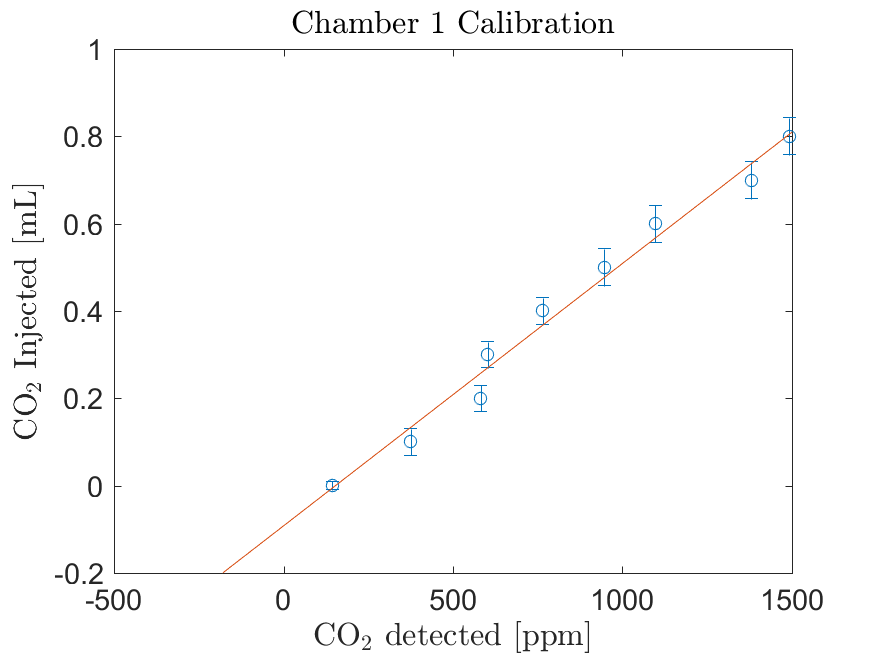
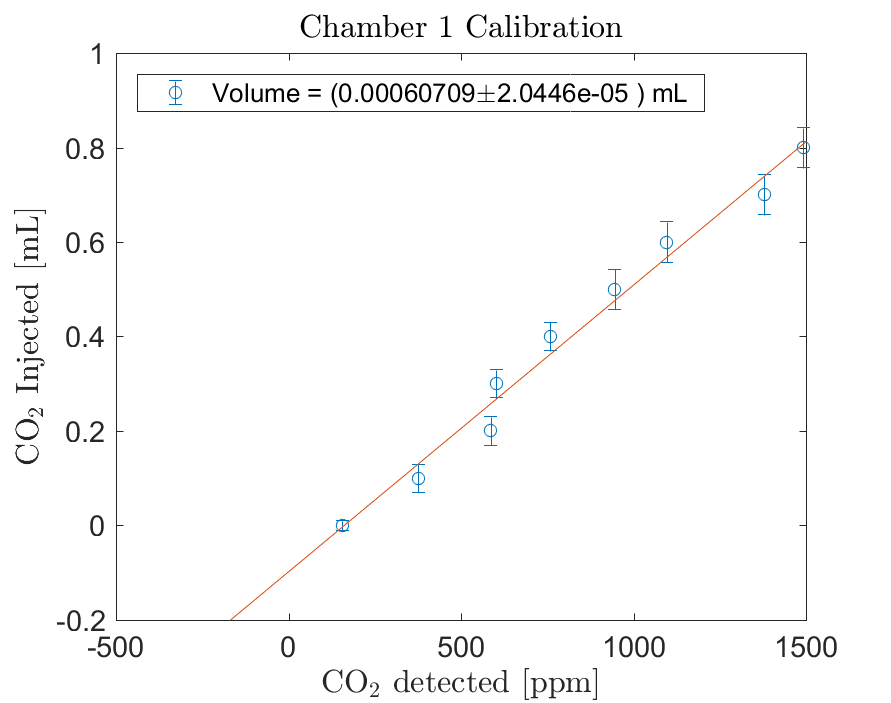
chamber data

diff --git a/leak_chmb_0-24_calibration/chmh_volume_calc.m b/leak_chmb_0-24_calibration/chmh_volume_calc.m
@@ -1,4 +1,5 @@
 % Program to calculate the volume of leak test chambers
+% created by Sam Penders (pende061@umn.edu)
 
 %filename = '/home/sam/Mu2e-Factory/leak_chmb_0-24_calibration/row_1/ch0_0.1_0.8mL.txt';
 
@@ -7,10 +8,10 @@ ppmError = zeros(9,10); %statistical error on averaged ppm datapoints %where the
 % times CO2 level changed from 0 to 0.1; 0.1 to 0.8; 0.2 to 0.7; 0.3 to 0.6; 0.4 to
 % 0.5 on last chamber
 
-for m = 1:1 %row 1 and row 2 data
+for m = 1:2 %row 1 and row 2 data
     for k = 1:5
         for n = 1:4 %read in all four files
-            filename = strcat('/home/sam/Mu2e-Factory/leak_chmb_0-24_calibration/row_',num2str(m),'/','ch',num2str(k-1),'_',num2str(n/10), '_',num2str(0.8-n/10+0.1),'mL.txt');
+            filename = strcat('/home/sam/Mu2e-Factory/leak_chmb_0-24_calibration/row_',num2str(m),'/','ch',num2str(k-1+5*(m-1)),'_',num2str(n/10), '_',num2str(0.8-n/10+0.1),'mL.txt');
 
             d = readtable(filename);
             t = table2array(d(:,1)); %times, in epoch time
@@ -19,16 +20,22 @@ for m = 1:1 %row 1 and row 2 data
             if m ==1
                 transitions = [1514917008.0849, 1514917591.98222, 1514925969.34006, 1514928576.9107, 1514930780.71907];
             else
-                %transitions = get transitions from data
+                transitions = [1514917398.41982 1514917997.38311 1514926061.61034 1514928669.92289 1514930812.94912];
+
             end
             
             %get initial CO2 level--only do in n=1 case
             if n ==1
-                tempInitial = zeros(10,1);
-                for i = 2:11
-                    tempInitial(i) = ppm(i);
+                tempInitial = [];
+                for i = 2:14
+                    if ppm(i) ~= -1.00
+                        tempInitial = [tempInitial ppm(i)];
+                        %disp(ppm(i))
+                    end
                 end
+                %disp('END');
                 ppmMatrix(1,k+5*(m-1)) = mean(tempInitial);
+                %disp(mean(tempInitial));
                 ppmError(1,k+5*(m-1)) = std(tempInitial);
             end
 
@@ -61,10 +68,8 @@ for m = 1:1 %row 1 and row 2 data
                     ppmAvg = [];
 
                     if j == 1
-                        for i = 1:length(t)
-                            if (t(i) > t(1) +60) && ( t(i) < transitions(n+1)-270 )
-                                ppmAvg = [ppmAvg ppm(i)];
-                            end
+                        for i = 2:15
+                            ppmAvg = [ppmAvg ppm(i)];
                         end
                         ppmMatrix(n+1,k+5*(m-1)) = mean(ppmAvg);
                         ppmError(n+1,k+5*(m-1)) = std(ppmAvg);
@@ -87,26 +92,47 @@ co2 = 0:0.1:0.8;
 co2err =[ [0.01] 0.03*ones(1,4)  0.03*sqrt(2)*ones(1,4)] %estimated error in CO2 volume
 fitParameters = zeros(10,2); %slope and its uncertainty
 
-for i = 1:5 %fit data and make plots 
-    datafit = fit(ppmMatrix(:,i), co2.', 'poly1','Weights',co2err)%.^-1)
+%fixing incorrect data for 0.0, 0.1 mL for ch7--reran test for those, and manually
+%entering data
+ppmMatrix(1,8) = 81.0769;
+ppmMatrix(2,8) = 274.5;
+ppmMatrix(9,8) = 1431.667;
+
+%fixing  Incorrect 0.7 mL data for ch5
+ppmMatrix(8,6) = 1365.208;
+
+%fixing incorrect data for ch0, ch3: 0.0, 0.1, 0.8 mL
+ppmMatrix(1,1) = 94.47;
+ppmMatrix(2,1) = 304.227;
+ppmMatrix(9,1) = 1480.05;
+
+ppmMatrix(1,4) = 114.13;
+ppmMatrix(2,4) = 290.25;
+ppmMatrix(9,4) = 1442.118;
+
+
+for i = 1:10 %fit data and make plots 
+    datafit = fit(ppmMatrix(:,i), co2.', 'poly1','Weights',co2err.^-1)
     coeff = coeffvalues(datafit);
     coeff_error = confint(datafit);
     
-    fitParameters(i,1) = coeff(1); %slope from fit
+    fitParameters(i,1) = coeff(1); %slope from fit -> multiply by 10^6 mL for volume in CC
     fitParameters(i,2) = (abs(coeff(1)-coeff_error(1)))/3; %change 95% confidence interval into 1 sigma
     
-    f = errorbar(ppmMatrix(:,i),co2, co2err,'o')
+    f = errorbar(ppmMatrix(:,i),co2, co2err,'o');
     hold on;
     fplot( @(x) coeff(1)*x + coeff(2) )
     plotname = strcat('/home/sam/Mu2e-Factory/leak_chmb_0-24_calibration/fits/ch',num2str(i-1),'_calibration.png');
     title(strcat('Chamber ',{' '},num2str(i-1),' Calibration'));
     ylabel('CO$_2$ Injected [mL]');
     xlabel('CO$_2$ detected [ppm]' );
+    
+    fiteqn = strcat('Volume = (', num2str(coeff(1)),'\pm' ,num2str(fitParameters(i,2)),{' '},') mL');
+    legend('data',fiteqn,'location','northwest');
     saveas(f, plotname );
     hold off;
-    close();
-   
+    close();  
 end
 
-
-
+csvwrite('ch0-ch9_chamber_volumes_datapoints.csv',ppmMatrix) 
+csvwrite('ch0-ch9_chambervolumes.csv',10^6*fitParameters); %file with volume and uncertainty in CC
